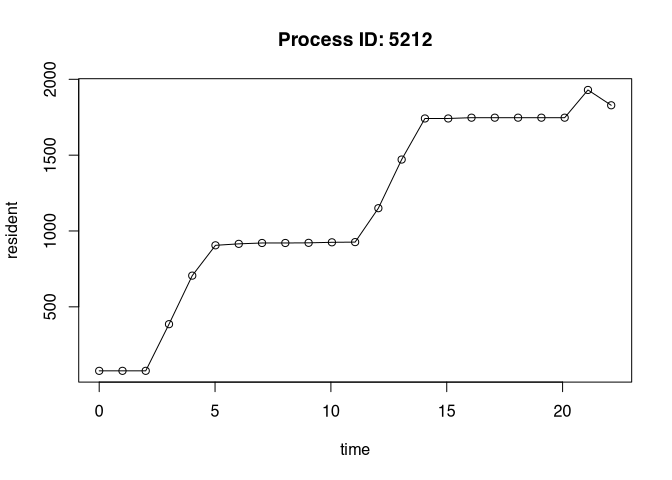
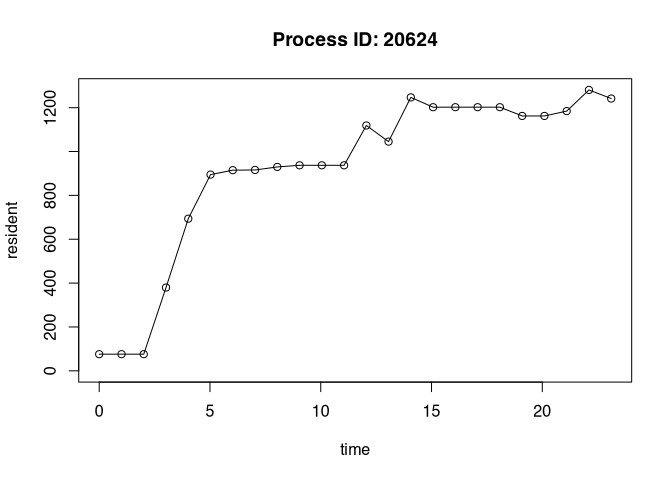
badge

diff --git a/README.md b/README.md
@@ -1,10 +1,7 @@
 
 # autometric <a href="https://wlandau.github.io/autometric/"><img src="man/figures/logo-readme.png" align="right" height="138" /></a>
 
-<!--
 [![CRAN](https://www.r-pkg.org/badges/version/autometric)](https://CRAN.R-project.org/package=autometric)
--->
-
 [![status](https://www.repostatus.org/badges/latest/active.svg)](https://www.repostatus.org/#active)
 [![check](https://github.com/wlandau/autometric/actions/workflows/check.yaml/badge.svg)](https://github.com/wlandau/autometric/actions?query=workflow%3Acheck)
 [![codecov](https://codecov.io/gh/wlandau/autometric/branch/main/graph/badge.svg?token=3T5DlLwUVl)](https://app.codecov.io/gh/wlandau/autometric)
@@ -104,35 +101,36 @@ When we read in the log file, we see messages from both R and the
 writeLines(readLines(log_file))
 #> [1] "Setting up the log."
 #> [1] "Warming up."
-#> __AUTOMETRIC__|0.0.4.9000|5212|my_worker|0|1728302986.989|0.900|0.090|77938688|420690477056|__AUTOMETRIC__
-#> __AUTOMETRIC__|0.0.4.9000|5212|my_worker|0|1728302987.994|0.000|0.000|78004224|420699914240|__AUTOMETRIC__
+#> __AUTOMETRIC__|0.0.5.9000|20624|my_worker|0|1728590201.166|1.000|0.100|76005376|420621271040|__AUTOMETRIC__
+#> __AUTOMETRIC__|0.0.5.9000|20624|my_worker|0|1728590202.174|0.000|0.000|76021760|420621271040|__AUTOMETRIC__
 #> [1] "Defining a function that guzzles CPU power."
 #> [1] "Allocating a large object."
-#> __AUTOMETRIC__|0.0.4.9000|5212|my_worker|0|1728302988.997|0.000|0.000|78053376|420708302848|__AUTOMETRIC__
-#> __AUTOMETRIC__|0.0.4.9000|5212|my_worker|0|1728302990.002|95.800|9.580|385613824|421508333568|__AUTOMETRIC__
-#> __AUTOMETRIC__|0.0.4.9000|5212|my_worker|0|1728302991.005|99.900|9.990|705708032|421508333568|__AUTOMETRIC__
+#> __AUTOMETRIC__|0.0.5.9000|20624|my_worker|0|1728590203.177|0.000|0.000|76038144|420621271040|__AUTOMETRIC__
+#> __AUTOMETRIC__|0.0.5.9000|20624|my_worker|0|1728590204.182|95.400|9.540|379813888|421421301760|__AUTOMETRIC__
+#> __AUTOMETRIC__|0.0.5.9000|20624|my_worker|0|1728590205.187|100.000|10.000|693846016|421421301760|__AUTOMETRIC__
 #> [1] "Guzzling CPU power."
-#> __AUTOMETRIC__|0.0.4.9000|5212|my_worker|0|1728302992.007|99.400|9.940|905494528|421533499392|__AUTOMETRIC__
-#> __AUTOMETRIC__|0.0.4.9000|5212|my_worker|0|1728302993.012|100.000|10.000|915177472|421533499392|__AUTOMETRIC__
-#> __AUTOMETRIC__|0.0.4.9000|5212|my_worker|0|1728302994.017|100.000|10.000|920846336|421533499392|__AUTOMETRIC__
-#> __AUTOMETRIC__|0.0.4.9000|5212|my_worker|0|1728302995.022|98.800|9.880|920846336|421533499392|__AUTOMETRIC__
-#> __AUTOMETRIC__|0.0.4.9000|5212|my_worker|0|1728302996.027|98.800|9.880|921862144|421533499392|__AUTOMETRIC__
-#> __AUTOMETRIC__|0.0.4.9000|5212|my_worker|0|1728302997.033|99.700|9.970|925302784|421533499392|__AUTOMETRIC__
-#> __AUTOMETRIC__|0.0.4.9000|5212|my_worker|0|1728302998.035|99.100|9.910|926695424|421541888000|__AUTOMETRIC__
+#> __AUTOMETRIC__|0.0.5.9000|20624|my_worker|0|1728590206.192|96.300|9.630|894943232|421555519488|__AUTOMETRIC__
+#> __AUTOMETRIC__|0.0.5.9000|20624|my_worker|0|1728590207.194|99.100|9.910|914997248|421563908096|__AUTOMETRIC__
+#> __AUTOMETRIC__|0.0.5.9000|20624|my_worker|0|1728590208.199|99.400|9.940|915963904|421563908096|__AUTOMETRIC__
+#> __AUTOMETRIC__|0.0.5.9000|20624|my_worker|0|1728590209.204|100.000|10.000|929775616|421563908096|__AUTOMETRIC__
+#> __AUTOMETRIC__|0.0.5.9000|20624|my_worker|0|1728590210.210|99.200|9.920|937164800|421563908096|__AUTOMETRIC__
+#> __AUTOMETRIC__|0.0.5.9000|20624|my_worker|0|1728590211.215|99.900|9.990|937164800|421563908096|__AUTOMETRIC__
+#> __AUTOMETRIC__|0.0.5.9000|20624|my_worker|0|1728590212.220|100.000|10.000|937164800|421563908096|__AUTOMETRIC__
 #> [1] "Allocating another large object."
-#> __AUTOMETRIC__|0.0.4.9000|5212|my_worker|0|1728302999.038|99.700|9.970|1150222336|422341902336|__AUTOMETRIC__
-#> __AUTOMETRIC__|0.0.4.9000|5212|my_worker|0|1728303000.043|99.900|9.990|1470906368|422341902336|__AUTOMETRIC__
+#> __AUTOMETRIC__|0.0.5.9000|20624|my_worker|0|1728590213.225|100.000|10.000|1118781440|422363922432|__AUTOMETRIC__
+#> __AUTOMETRIC__|0.0.5.9000|20624|my_worker|0|1728590214.226|93.800|9.380|1045135360|422363922432|__AUTOMETRIC__
 #> [1] "Guzzling more CPU."
-#> __AUTOMETRIC__|0.0.4.9000|5212|my_worker|0|1728303001.048|100.000|10.000|1741717504|422341902336|__AUTOMETRIC__
-#> __AUTOMETRIC__|0.0.4.9000|5212|my_worker|0|1728303002.053|98.400|9.840|1741717504|422341902336|__AUTOMETRIC__
-#> __AUTOMETRIC__|0.0.4.9000|5212|my_worker|0|1728303003.058|100.000|10.000|1746960384|422341902336|__AUTOMETRIC__
-#> __AUTOMETRIC__|0.0.4.9000|5212|my_worker|0|1728303004.063|100.000|10.000|1746993152|422341902336|__AUTOMETRIC__
-#> __AUTOMETRIC__|0.0.4.9000|5212|my_worker|0|1728303005.068|100.000|10.000|1746993152|422341902336|__AUTOMETRIC__
-#> __AUTOMETRIC__|0.0.4.9000|5212|my_worker|0|1728303006.074|99.600|9.960|1746993152|422341902336|__AUTOMETRIC__
-#> __AUTOMETRIC__|0.0.4.9000|5212|my_worker|0|1728303007.079|100.000|10.000|1746993152|422341902336|__AUTOMETRIC__
+#> __AUTOMETRIC__|0.0.5.9000|20624|my_worker|0|1728590215.231|99.100|9.910|1246822400|422363922432|__AUTOMETRIC__
+#> __AUTOMETRIC__|0.0.5.9000|20624|my_worker|0|1728590216.236|100.000|10.000|1202110464|422363922432|__AUTOMETRIC__
+#> __AUTOMETRIC__|0.0.5.9000|20624|my_worker|0|1728590217.242|98.200|9.820|1202159616|422363922432|__AUTOMETRIC__
+#> __AUTOMETRIC__|0.0.5.9000|20624|my_worker|0|1728590218.247|99.700|9.970|1202159616|422363922432|__AUTOMETRIC__
+#> __AUTOMETRIC__|0.0.5.9000|20624|my_worker|0|1728590219.252|100.000|10.000|1202159616|422363922432|__AUTOMETRIC__
+#> __AUTOMETRIC__|0.0.5.9000|20624|my_worker|0|1728590220.257|99.900|9.990|1162248192|422363922432|__AUTOMETRIC__
+#> __AUTOMETRIC__|0.0.5.9000|20624|my_worker|0|1728590221.262|98.700|9.870|1162248192|422363922432|__AUTOMETRIC__
 #> [1] "Allocating a third large object."
-#> __AUTOMETRIC__|0.0.4.9000|5212|my_worker|0|1728303008.084|98.600|9.860|1929740288|423141916672|__AUTOMETRIC__
-#> __AUTOMETRIC__|0.0.4.9000|5212|my_worker|0|1728303009.087|100.000|10.000|1828651008|423141916672|__AUTOMETRIC__
+#> __AUTOMETRIC__|0.0.5.9000|20624|my_worker|0|1728590222.268|100.000|10.000|1184382976|423163936768|__AUTOMETRIC__
+#> __AUTOMETRIC__|0.0.5.9000|20624|my_worker|0|1728590223.271|99.400|9.940|1280753664|423163936768|__AUTOMETRIC__
+#> __AUTOMETRIC__|0.0.5.9000|20624|my_worker|0|1728590224.276|100.000|10.000|1241595904|423163936768|__AUTOMETRIC__
 #> [1] "Done."
 ```
 
@@ -145,30 +143,31 @@ library(autometric)
 log_data <- log_read(log_file)
 
 log_data
-#>       version  pid      name status   time  core   cpu   resident  virtual
-#> 1  0.0.4.9000 5212 my_worker      0  0.000   0.9  0.09   77.93869 420690.5
-#> 2  0.0.4.9000 5212 my_worker      0  1.005   0.0  0.00   78.00422 420699.9
-#> 3  0.0.4.9000 5212 my_worker      0  2.008   0.0  0.00   78.05338 420708.3
-#> 4  0.0.4.9000 5212 my_worker      0  3.013  95.8  9.58  385.61382 421508.3
-#> 5  0.0.4.9000 5212 my_worker      0  4.016  99.9  9.99  705.70803 421508.3
-#> 6  0.0.4.9000 5212 my_worker      0  5.018  99.4  9.94  905.49453 421533.5
-#> 7  0.0.4.9000 5212 my_worker      0  6.023 100.0 10.00  915.17747 421533.5
-#> 8  0.0.4.9000 5212 my_worker      0  7.028 100.0 10.00  920.84634 421533.5
-#> 9  0.0.4.9000 5212 my_worker      0  8.033  98.8  9.88  920.84634 421533.5
-#> 10 0.0.4.9000 5212 my_worker      0  9.038  98.8  9.88  921.86214 421533.5
-#> 11 0.0.4.9000 5212 my_worker      0 10.044  99.7  9.97  925.30278 421533.5
-#> 12 0.0.4.9000 5212 my_worker      0 11.046  99.1  9.91  926.69542 421541.9
-#> 13 0.0.4.9000 5212 my_worker      0 12.049  99.7  9.97 1150.22234 422341.9
-#> 14 0.0.4.9000 5212 my_worker      0 13.054  99.9  9.99 1470.90637 422341.9
-#> 15 0.0.4.9000 5212 my_worker      0 14.059 100.0 10.00 1741.71750 422341.9
-#> 16 0.0.4.9000 5212 my_worker      0 15.064  98.4  9.84 1741.71750 422341.9
-#> 17 0.0.4.9000 5212 my_worker      0 16.069 100.0 10.00 1746.96038 422341.9
-#> 18 0.0.4.9000 5212 my_worker      0 17.074 100.0 10.00 1746.99315 422341.9
-#> 19 0.0.4.9000 5212 my_worker      0 18.079 100.0 10.00 1746.99315 422341.9
-#> 20 0.0.4.9000 5212 my_worker      0 19.085  99.6  9.96 1746.99315 422341.9
-#> 21 0.0.4.9000 5212 my_worker      0 20.090 100.0 10.00 1746.99315 422341.9
-#> 22 0.0.4.9000 5212 my_worker      0 21.095  98.6  9.86 1929.74029 423141.9
-#> 23 0.0.4.9000 5212 my_worker      0 22.098 100.0 10.00 1828.65101 423141.9
+#>       version   pid      name status   time  core   cpu   resident  virtual
+#> 1  0.0.5.9000 20624 my_worker      0  0.000   1.0  0.10   76.00538 420621.3
+#> 2  0.0.5.9000 20624 my_worker      0  1.008   0.0  0.00   76.02176 420621.3
+#> 3  0.0.5.9000 20624 my_worker      0  2.011   0.0  0.00   76.03814 420621.3
+#> 4  0.0.5.9000 20624 my_worker      0  3.016  95.4  9.54  379.81389 421421.3
+#> 5  0.0.5.9000 20624 my_worker      0  4.021 100.0 10.00  693.84602 421421.3
+#> 6  0.0.5.9000 20624 my_worker      0  5.026  96.3  9.63  894.94323 421555.5
+#> 7  0.0.5.9000 20624 my_worker      0  6.028  99.1  9.91  914.99725 421563.9
+#> 8  0.0.5.9000 20624 my_worker      0  7.033  99.4  9.94  915.96390 421563.9
+#> 9  0.0.5.9000 20624 my_worker      0  8.038 100.0 10.00  929.77562 421563.9
+#> 10 0.0.5.9000 20624 my_worker      0  9.044  99.2  9.92  937.16480 421563.9
+#> 11 0.0.5.9000 20624 my_worker      0 10.049  99.9  9.99  937.16480 421563.9
+#> 12 0.0.5.9000 20624 my_worker      0 11.054 100.0 10.00  937.16480 421563.9
+#> 13 0.0.5.9000 20624 my_worker      0 12.059 100.0 10.00 1118.78144 422363.9
+#> 14 0.0.5.9000 20624 my_worker      0 13.060  93.8  9.38 1045.13536 422363.9
+#> 15 0.0.5.9000 20624 my_worker      0 14.065  99.1  9.91 1246.82240 422363.9
+#> 16 0.0.5.9000 20624 my_worker      0 15.070 100.0 10.00 1202.11046 422363.9
+#> 17 0.0.5.9000 20624 my_worker      0 16.076  98.2  9.82 1202.15962 422363.9
+#> 18 0.0.5.9000 20624 my_worker      0 17.081  99.7  9.97 1202.15962 422363.9
+#> 19 0.0.5.9000 20624 my_worker      0 18.086 100.0 10.00 1202.15962 422363.9
+#> 20 0.0.5.9000 20624 my_worker      0 19.091  99.9  9.99 1162.24819 422363.9
+#> 21 0.0.5.9000 20624 my_worker      0 20.096  98.7  9.87 1162.24819 422363.9
+#> 22 0.0.5.9000 20624 my_worker      0 21.102 100.0 10.00 1184.38298 423163.9
+#> 23 0.0.5.9000 20624 my_worker      0 22.105  99.4  9.94 1280.75366 423163.9
+#> 24 0.0.5.9000 20624 my_worker      0 23.110 100.0 10.00 1241.59590 423163.9
 ```
 
 `autometric` also supports simple visualizations plot performance
